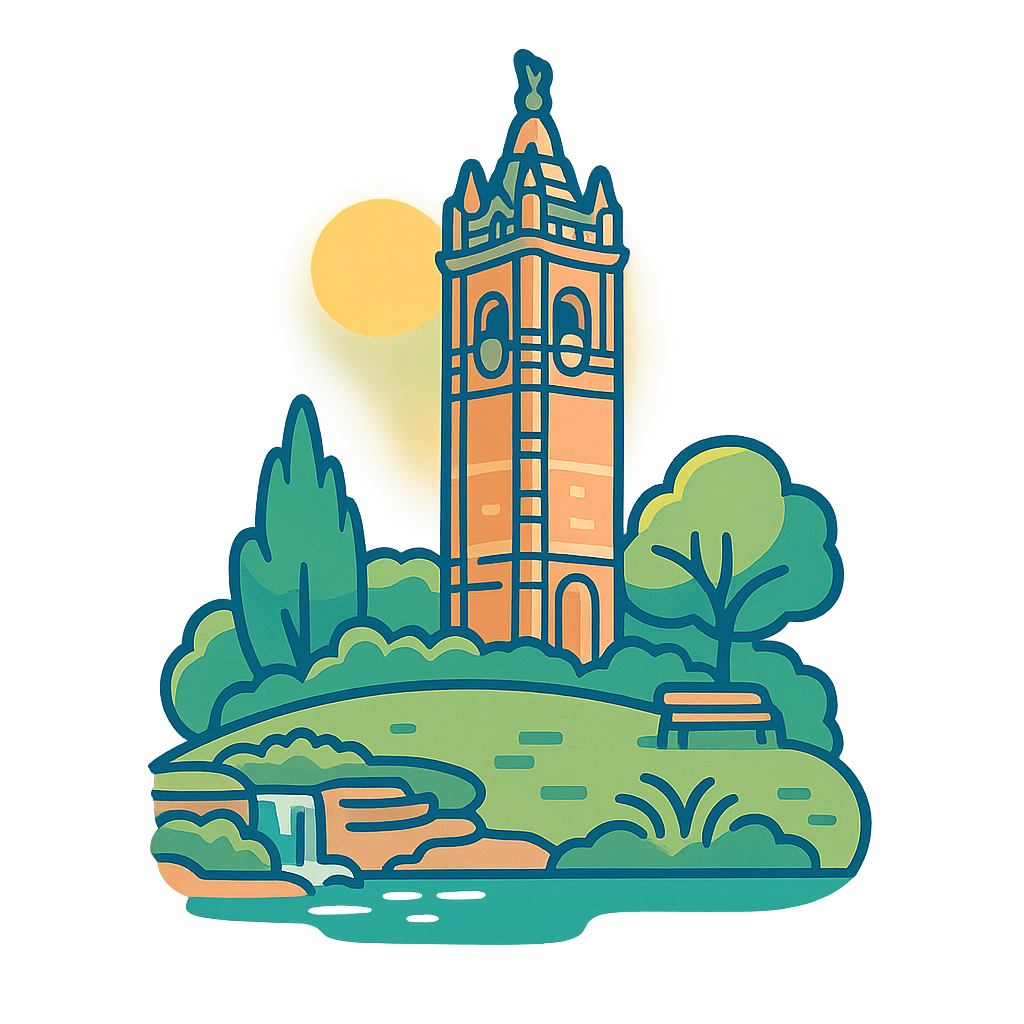
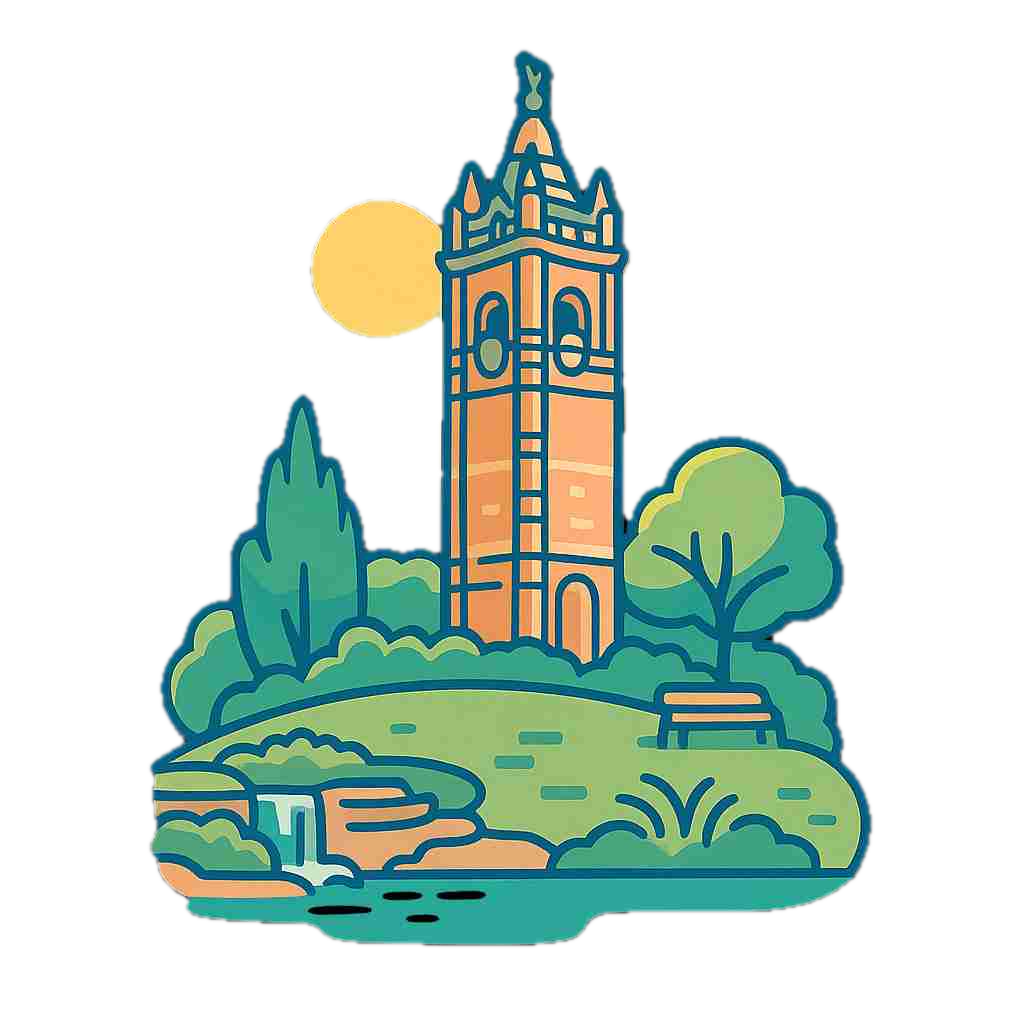
new images added in and Mobile Nav commented out - desktop Nav moved inside ClientRoot wrapper

Changed region(s): [[0.125, 0.0312, 0.875, 0.9375], [0.8125, 0.5, 0.8438, 0.5938], [0.7812, 0.6562, 0.8125, 0.6875]]

diff --git a/src/app/components/layout/navigation/MobileNav.tsx b/src/app/components/layout/navigation/MobileNav.tsx
@@ -1,50 +1,50 @@
-"use client";
-import * as React from "react";
-import Link from "next/link";
-import { FaBars, FaTimes } from "react-icons/fa";
-import { NavItem } from "@/utils/types/types";
+// "use client";
+// import * as React from "react";
+// import Link from "next/link";
+// import { FaBars, FaTimes } from "react-icons/fa";
+// import { NavItem } from "@/utils/types/types";
 
-type Props = {
-	isOpen: boolean;
-	setOpen: (open: boolean) => void;
-	items: NavItem[];
-};
+// type Props = {
+// 	isOpen: boolean;
+// 	setOpen: (open: boolean) => void;
+// 	items: NavItem[];
+// };
 
-export default function MobileMenu({ isOpen, setOpen, items }: Props) {
-	return (
-		<div className='sm:hidden fixed pt-2 justify-end items-end z-50 border-b-[1.5px] border-primary bg-primary-foreground bg-opacity-60 w-full'>
-			<button
-				onClick={() => setOpen(!isOpen)}
-				className='flex flex-col self-end items-center ml-[90%] p-2 mb-1 rounded-md text-white hover:text-opacity-60 transition-colors'
-				aria-expanded={isOpen}
-				aria-controls='mobile-nav-panel'
-				aria-label='Open menu'>
-				{isOpen ? (
-					<FaTimes className='z-50' size={30} />
-				) : (
-					<FaBars size={30} />
-				)}
-			</button>
+// function MobileMenu({ isOpen, setOpen, items }: Props) {
+// 	return (
+// 		<div className='sm:hidden fixed pt-2 justify-end items-end z-50 border-b-[1.5px] border-primary bg-primary-foreground bg-opacity-60 w-full'>
+// 			<button
+// 				onClick={() => setOpen(!isOpen)}
+// 				className='flex flex-col self-end items-center ml-[90%] p-2 mb-1 rounded-md text-white hover:text-opacity-60 transition-colors'
+// 				aria-expanded={isOpen}
+// 				aria-controls='mobile-nav-panel'
+// 				aria-label='Open menu'>
+// 				{isOpen ? (
+// 					<FaTimes className='z-50' size={30} />
+// 				) : (
+// 					<FaBars size={30} />
+// 				)}
+// 			</button>
 
-			{isOpen && (
-				<div
-					id='mobile-nav-panel'
-					className='md:hidden fixed top-0 right-0 p-8 h-auto w-[50%] z-40 border-l border-b bg-white bg-opacity-95 backdrop-blur-sm'>
-					<nav
-						className='flex flex-col items-start p-2 h-[10%]'
-						aria-label='Mobile'>
-						{items.map((item) => (
-							<Link
-								key={item.href}
-								href={item.href}
-								className='text-xl text-left font-semibold my-4 hover:text-gray-600 transition-colors'
-								onClick={() => setOpen(false)}>
-								{item.label}
-							</Link>
-						))}
-					</nav>
-				</div>
-			)}
-		</div>
-	);
-}
+// 			{isOpen && (
+// 				<div
+// 					id='mobile-nav-panel'
+// 					className='md:hidden fixed top-0 right-0 p-8 h-auto w-[50%] z-40 border-l border-b bg-white bg-opacity-95 backdrop-blur-sm'>
+// 					<nav
+// 						className='flex flex-col items-start p-2 h-[10%]'
+// 						aria-label='Mobile'>
+// 						{items.map((item) => (
+// 							<Link
+// 								key={item.href}
+// 								href={item.href}
+// 								className='text-xl text-left font-semibold my-4 hover:text-gray-600 transition-colors'
+// 								onClick={() => setOpen(false)}>
+// 								{item.label}
+// 							</Link>
+// 						))}
+// 					</nav>
+// 				</div>
+// 			)}
+// 		</div>
+// 	);
+// }

diff --git a/src/app/components/layout/navigation/ClientRoot.tsx b/src/app/components/layout/navigation/ClientRoot.tsx
@@ -7,15 +7,15 @@ import {
 	finalColorStr,
 	initialColorStr
 } from "@/utils/helpers/appearance/scrollColorBG";
-import { NAV_ITEMS } from "./DesktopMenu";
-import MobileMenu from "./MobileNav";
+// import { NAV_ITEMS } from "./DesktopMenu";
+// import MobileMenu from "./MobileNav";
 
 export default function ClientRoot({
 	children
 }: {
 	children: React.ReactNode;
 }) {
-	const [mobileMenuOpen, setMobileMenuOpen] = useState(false);
+	// const [mobileMenuOpen, setMobileMenuOpen] = useState(false);
 	const [bgColor, setBgColor] = useState(initialColorStr);
 	useEffect(() => {
 		return attachScrollColor({
@@ -43,11 +43,11 @@ export default function ClientRoot({
 			}}
 			className='flex relative flex-col h-full w-full text-white overflow-x-hidden sticky-top-0!'>
 			<SessionContextProvider supabaseClient={supabase}>
-				<MobileMenu
+				{/* <MobileMenu
 					isOpen={mobileMenuOpen}
 					setOpen={setMobileMenuOpen}
 					items={NAV_ITEMS}
-				/>
+				/> */}
 				{/* Main */}
 				<main className='h-full w-screen relative'>{children}</main>
 			</SessionContextProvider>

diff --git a/src/app/layout.tsx b/src/app/layout.tsx
@@ -61,16 +61,16 @@ export default function RootLayout({
 			{/* single body lives here */}
 			<body className='flex min-h-screen w-full flex-col text-white overflow-x-hidden'>
 				{/* Desktop nav (client component) */}
-				<DesktopNav
-					items={NAV_ITEMS}
-					walkingData={walkingData}
-					badgeImageSrc='/assets/images/BABCP-logo.webp'
-					className='border-yellow-400'
-				/>
-				<div className='border-t-2 border-primary-foreground mt-[1px] w-[120%]' />
 
 				{/* ClientRoot provides background scroll effect, mobile menu, and contexts */}
 				<ClientRoot>
+					<DesktopNav
+						items={NAV_ITEMS}
+						walkingData={walkingData}
+						badgeImageSrc='/assets/images/BABCP-logo.webp'
+						className='border-yellow-400'
+					/>
+					<div className='border-t-2 border-primary-foreground mt-[1px] w-[120%]' />
 					{/* Main page content */}
 					<main className='relative w-screen flex-1'>{children}</main>
 					{/* Footer inside body, after content */}

diff --git a/src/app/components/sections/about-me/AboutMe.tsx b/src/app/components/sections/about-me/AboutMe.tsx
@@ -83,7 +83,7 @@ const AboutMe = ({ id }: { id: string }) => {
 					</div>
 					<div className='w-80 h-80 rounded-full overflow-hidden relative flex items-center align-self-start justify-center mt-16 -ml-16'>
 						<Image
-							src='/assets/images/Kiran.png'
+							src='/assets/images/Kiran.jpg'
 							alt='Photo of me: Kiran Sharma'
 							fill
 							sizes='400px'
